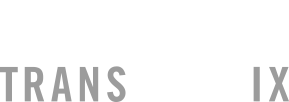
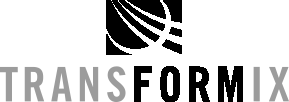
transformix color fix; added alan thompson; ewan reid bio edits; disabled coming soon 2018 schedule button

Changed region(s): [[0.3426, 0.0, 0.654, 0.5588], [0.654, 0.6471, 0.8408, 1.0], [0.436, 0.6471, 0.6228, 1.0]]

diff --git a/index.html b/index.html
@@ -278,7 +278,23 @@
           <p style = "font-size: 18px; margin-top:-8px;"><i>
           Click on a ticket type to apply.
           </i></p>
+          <p style = "font-size: 15px; margin-top:-8px;"><i>
+          Schedule coming soon!
+          </i></p>
         </div>
+        <!--Download Button-->
+        <div class = "text-center" style = "padding-top: 10px; padding-bottom: 0px;">
+        <form method="get">
+          <button class = "sched-down btn btn-primary" disabled = "true" style = " border:none; -webkit-box-shadow: 2px 3px 5px rgba(4, 4, 4, 0.3);
+-moz-box-shadow:    2px 3px 0px rgba(4, 4, 4, 0.3); width: 275px;">
+            <span>
+            <i class = "fa fa-arrow-circle-o-down fa-2x" style = "display:inline; padding-right: 8px; margin-top: 5px;"></i>
+            <p style = "display:inline; text-align: center; font-size: 20px;">QSC 2018 Schedule</p>
+            </span>
+          </button>
+          </form>
+          </div>
+        <!--End Download Button-->
   <!-- End Delegates -->
   </section>
   <hr id = "target_flareg" class =  "style13g" style = "background-color: linen;">
@@ -330,17 +346,21 @@
             <div class = "row" style = "margin-top: 22px; margin-bottom: 15px;">
               <!--Current Sponsor Bread and Butter-->
               <a href = "http://www.breadandbutter.ca/">
-                <div class = "col-md-4 col-xs-6 frameY hvr-grow"><img class = "img-responsive vertical-center" src = "img/sponsors/breadandbutter.png" style = "width: 300px;">
+                <div class = "col-lg-4 col-lg-offset-2 col-sm-6 col-xs-12 frameY hvr-grow"><img class = "img-responsive vertical-center" src = "img/sponsors/breadandbutter.png" style = "width: 300px;">
                 </div>
               </a>
               <!--Current Sponsor MDA-->
               <a href = "https://mdacorporation.com/">
-                <div class = "col-md-4 col-xs-6 frameY hvr-grow"><img class = "img-responsive vertical-center" src = "img/sponsors/MDA.png" style = "width: 300px;">
+                <div class = "col-lg-4 col-sm-6 col-xs-12 frameY hvr-grow"><img class = "img-responsive vertical-center" src = "img/sponsors/MDA.png" style = "width: 300px;">
                 </div>
               </a>
               <!--Current Sponsor Neptec-->
-              <a href = "http://neptec.com/"><div class = "col-md-4 col-xs-12 frameY hvr-grow">
+              <a href = "http://neptec.com/"><div class = "col-sm-6 col-xs-12 frameY hvr-grow">
               <img class = "img-responsive vertical-center" src = "img/sponsors/neptec_logo.png" style = "width:300px;">
+              </div></a>
+              <!--Current Sponsor Hatch-->
+              <a href = "http://hatch.com/"><div class = "col-sm-6 col-xs-12 frameY hvr-grow">
+              <img class = "img-responsive vertical-center" src = "img/sponsors/hatch.png" style = "width:300px;">
               </div></a>
             </div>
           </div>
@@ -402,9 +422,9 @@
               </div>
     </div>
     <!-- 2018 Speakers -->
-    <div class = "row">
+    <div class = "row" style = "margin-bottom: 20px;">
     <!-- Chis Damaren -->
-    <div class = "col-xs-12 col-md-4 current_speaker">
+    <div class = "col-xs-12 col-md-6 current_speaker">
       <div class = "img-wrap  text-center">
         <img src = "img/speakers/ewan_reid.jpg" class = "speaker_image">
       </div>
@@ -412,13 +432,11 @@
       <div class = "speaker_title text-center"><h4>President and CEO</h4></div>
       <div class = "speaker_association text-center"><h4>Mission Control Space Services Inc.</h4></div>
       <div class = "speaker_bio">
-        "Ewan Reid is the President and CEO of Mission Control Space Services Inc., an Ottawa based space technology development and industry consulting company. Prior to founding Mission Control, Ewan worked as a systems designer and project manager in the Canadian space industry.  
-         He has been a lead designer on three rover prototypes for the Canadian Space Agency, and was a systems and electrical designer and operations engineer on the NASA Space Shuttle Program. Ewan was a mission controller for nine shuttle missions and conducted numerous testing and verification activities at NASA.
-         He has degrees in Electrical Engineering and Economics from Queen’s University and is working on a Master’s degree in Technology Innovation Management from Carleton University."
+        "Ewan Reid is President and CEO of Mission Control Space Services Inc. founded in 2015 to pursue opportunities in the space/robotics sector.  Prior to founding Mission Control he held several positions at Neptec Design Group including Rover Power and Electrical Lead.  During his tenure in this role he was a lead designer on three rover prototypes for the Canadian Space Agency and supported a NASA/CSA lunar mission simulation on the slopes of Mauna Kea, Hawaii, manning the ROVER support console answering directly to the mission’s Flight Director.  Previously he was a systems and electrical designer and operations engineer for Neptec’s Laser Camera System.  In this capacity he was a mission controller for nine of the last 12 Space Shuttle missions at Mission Control at NASA JSC.  He also conducted numerous testing and verification activities at NASA KSC.  Ewan has degrees in Electrical Engineering and Economics from Queen’s University and is currently wrapping up a Master’s degree in Technology Innovation Management at Carleton University."
       </div>
     </div><!-- End Chis Damaren -->
     <!-- Chis Damaren -->
-    <div class = "col-xs-12 col-md-4 current_speaker">
+    <div class = "col-xs-12 col-md-6 current_speaker">
       <div class = "img-wrap  text-center">
         <img src = "img/speakers/chris_damaren.jpg" class = "speaker_image">
       </div>
@@ -430,8 +448,22 @@
         control of space systems.  He has made significant contributions to the control problems for structurally flexible robotic manipulators, flexible spacecraft, and spacecraft attitude control. He is a Fellow of the Canadian Aeronautics and Space Institute and an Associate Fellow of the American Institute of Aeronautics and Astronautics."
       </div>
     </div><!-- End Chis Damaren -->
+  </div><!-- End Speakrs row 1 -->
+  <div class = "row">
+    <!-- Alan Thompson -->
+    <div class = "col-xs-12 col-md-6 current_speaker">
+      <div class = "img-wrap  text-center">
+        <img src = "img/speakers/alan_thompson.jpg" class = "speaker_image">
+      </div>
+      <div class = "speaker_name text-center"><h3>Alan Thompson</h3></div>
+      <div class = "speaker_title text-center"><h4>Cheif Systems Engineer</h4></div>
+      <div class = "speaker_association text-center"><h4>RADARSAT Constellation Mission</h4></div>
+      <div class = "speaker_bio">
+        "Alan Thompson is the Chief Systems Engineer on the RADARSAT Constellation Mission (RCM) at MDA. RCM is a constellation of three Synthetic Aperture Radar (SAR) satellites being developed by MDA for the Canadian Space Agency. Alan has worked on RCM since its very beginning as a study in 2003 until the present, where the program is nearly ready for launch. Alan joined MDA in 1999 to work on RADARSAT-2 as a senior systems engineer. Prior to working at MDA, Alan worked on RADARSAT-1 SAR processing at Array Systems in Toronto. Alan has a Ph.D. in mathematics from MIT (in the field of integral geometry) and also a B.Sc. (Hon) in mathematics and computer Science from Queen’s university. While his Ph.D. was in pure mathematics, the radar imaging systems he currently works on are applications of the types of mathematics he used to study and develop. "
+      </div>
+    </div><!-- End Alan Thompson -->
     <!-- Bayar Goswami -->
-    <div class = "col-xs-12 col-md-4 current_speaker">
+    <div class = "col-xs-12 col-md-6 current_speaker">
       <div class = "img-wrap  text-center">
         <img src = "img/speakers/bayar_goswami.jpg" class = "speaker_image">
       </div>

diff --git a/resources/main.css b/resources/main.css
@@ -590,10 +590,10 @@ text-decoration: none;
 
 }
 .sched-down{
-  background-color:23527c;
+  background-color:#3cf;
 }
 .sched-down:hover,.sched-down:focus,.sched-down:active{
- background-color:#3cf;
+ background-color:#23527c;
 }
 #dele_icon{
   display:block;
